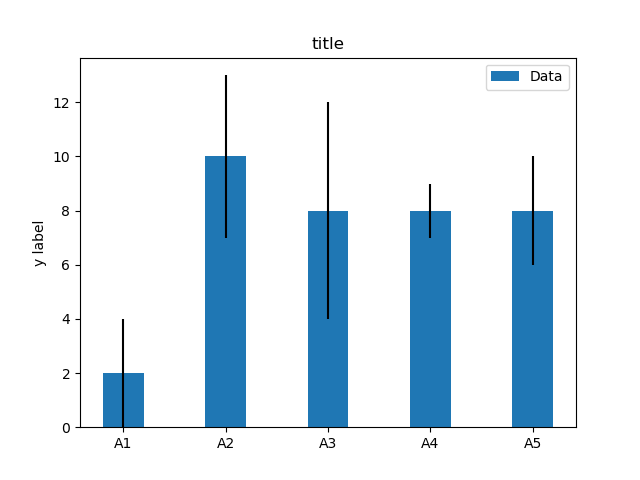
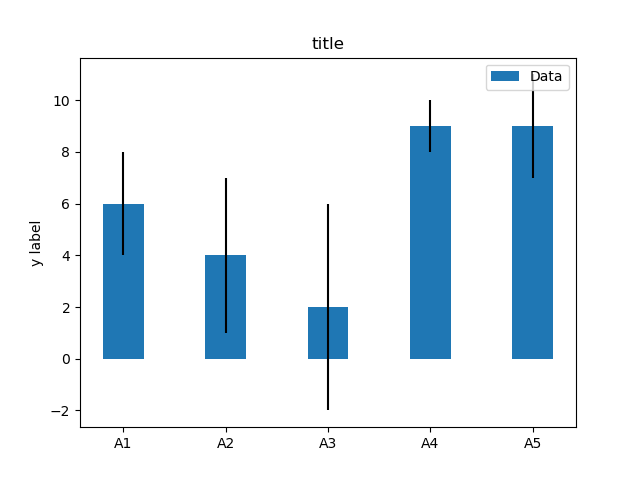
first commit

diff --git a/example.py b/example.py
@@ -2,7 +2,7 @@ import numpy as np
 import matplotlib.pyplot as plt
 
 labels = ['A1', 'A2', 'A3', 'A4', 'A5']
-m_means = [2,10,8,8,8]
+m_means = [6,4,2,9,9]
 m_std = [2, 3, 4, 1, 2]
 width = 0.40       # the width of the bars
 

diff --git a/README.md b/README.md
@@ -1,4 +1,4 @@
-# Matplotlib no 280 
+# Matplotlib no 281 
 
 python example
 
